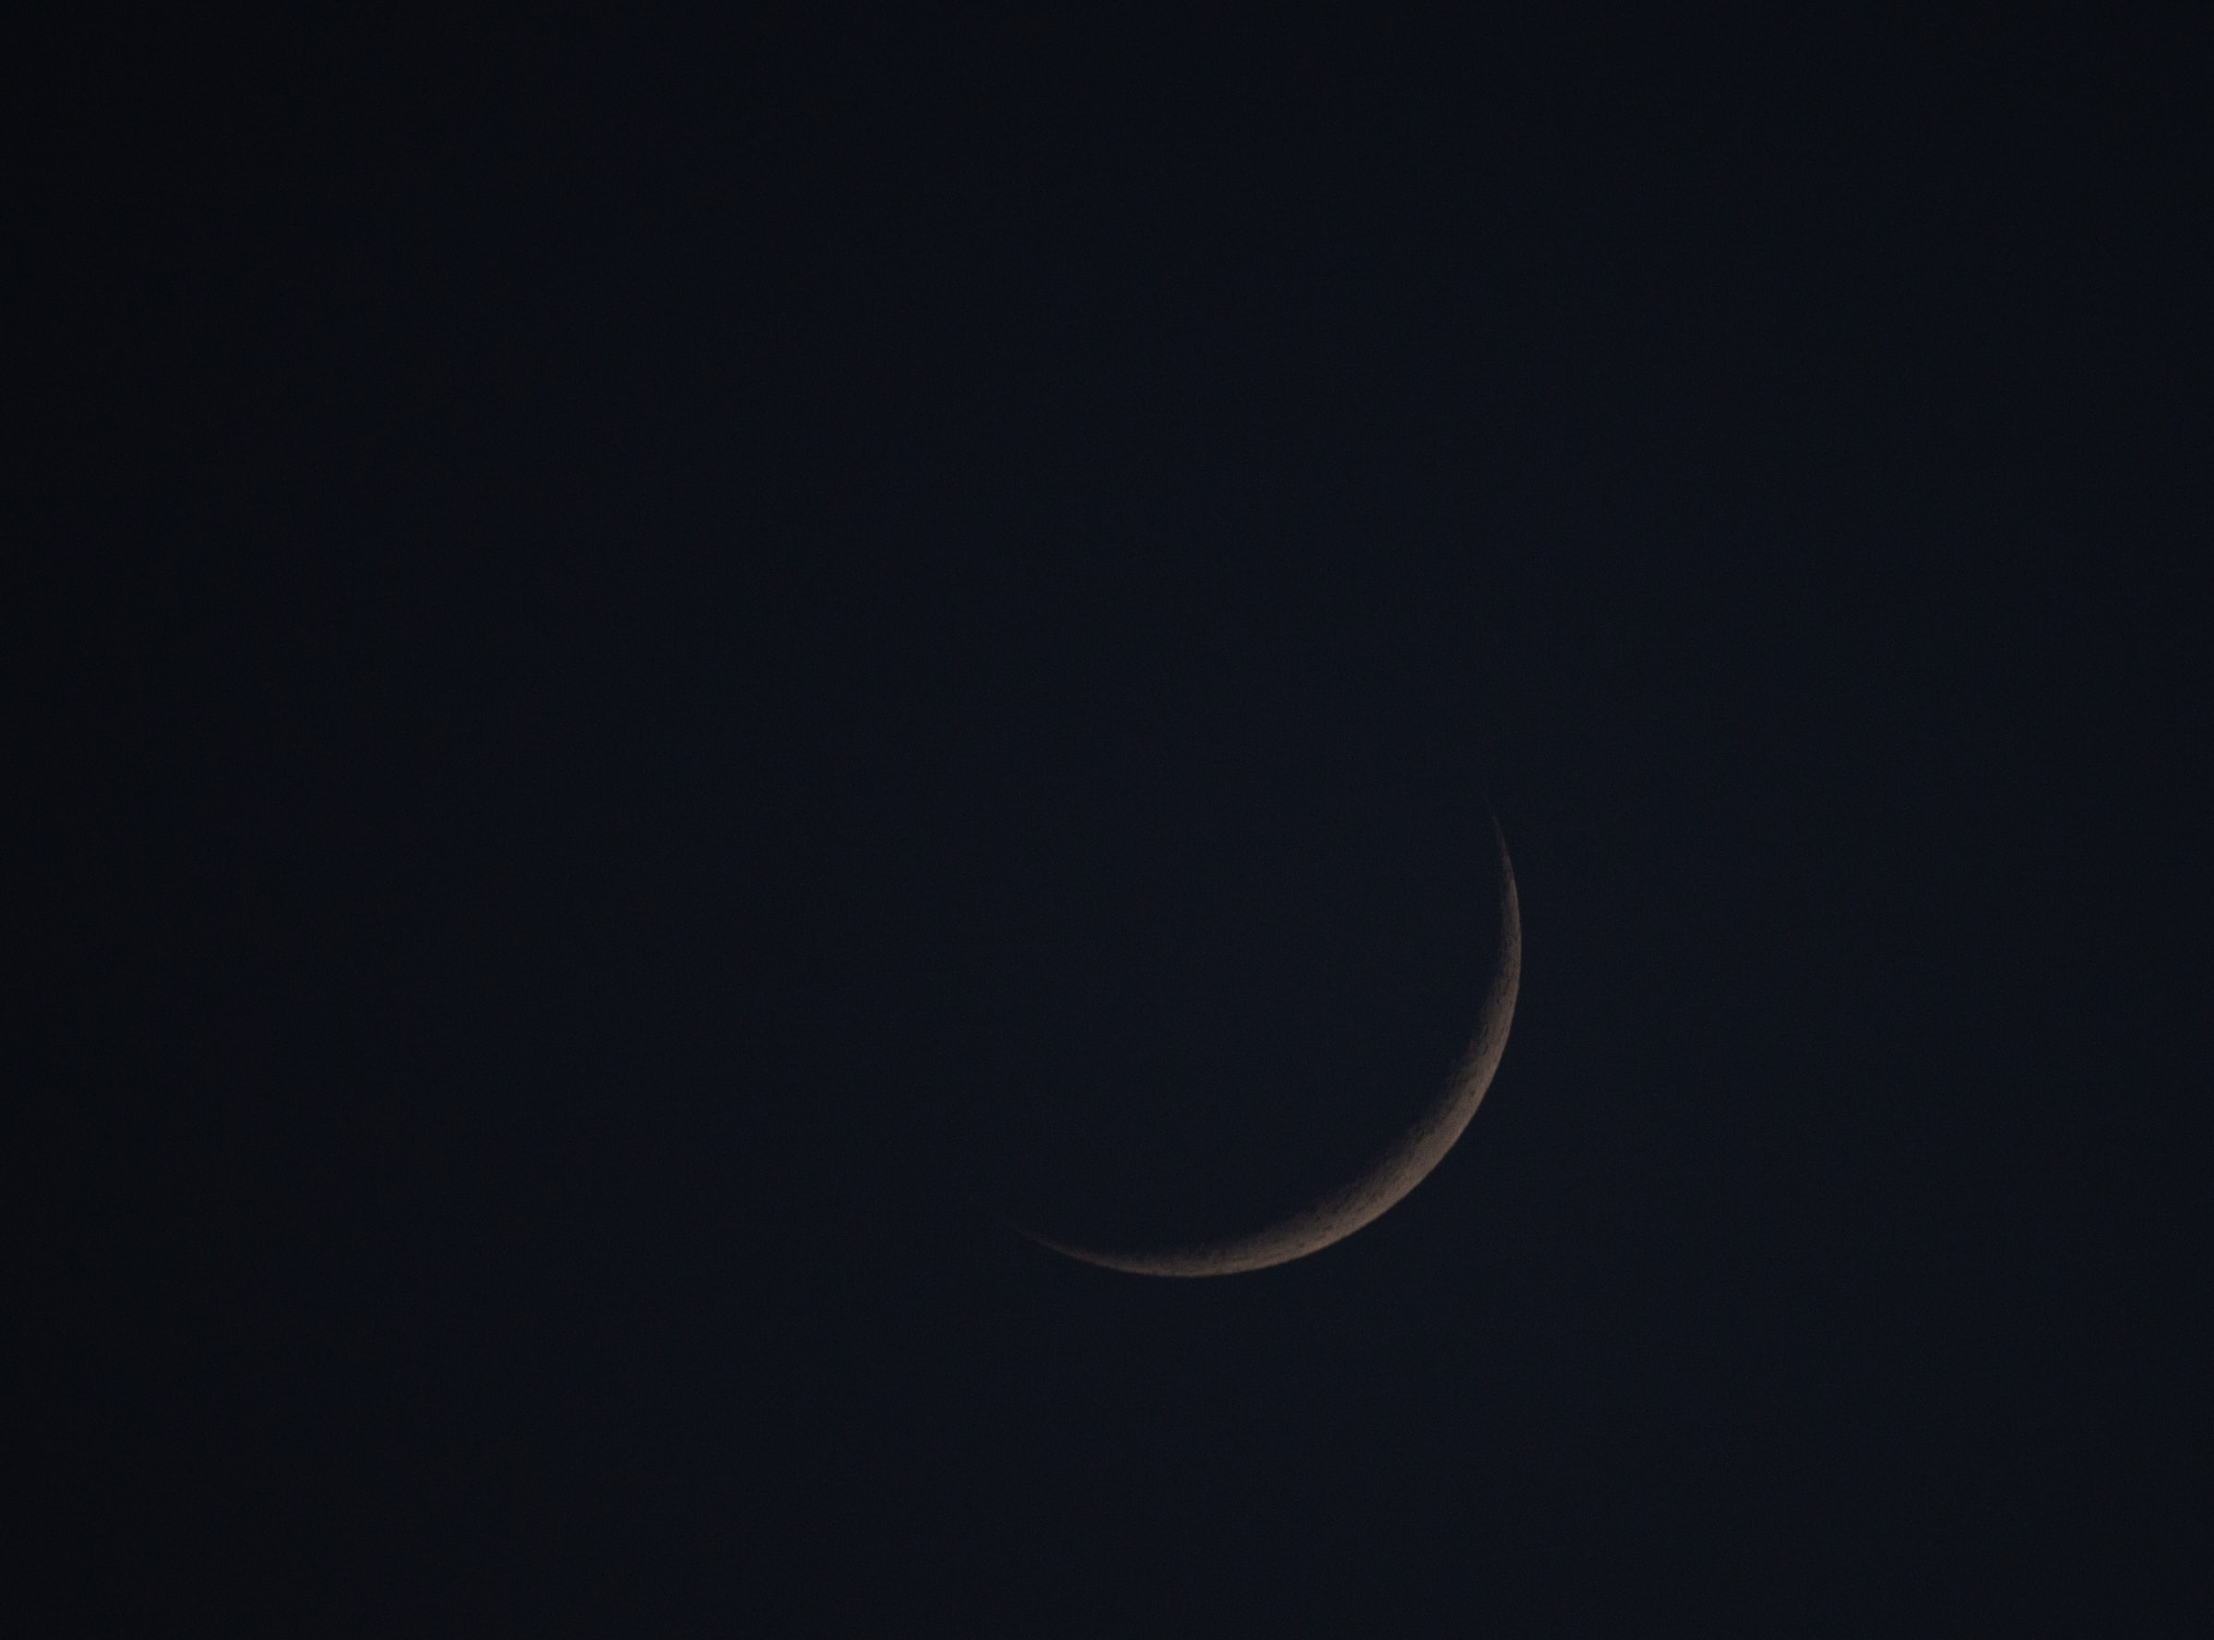
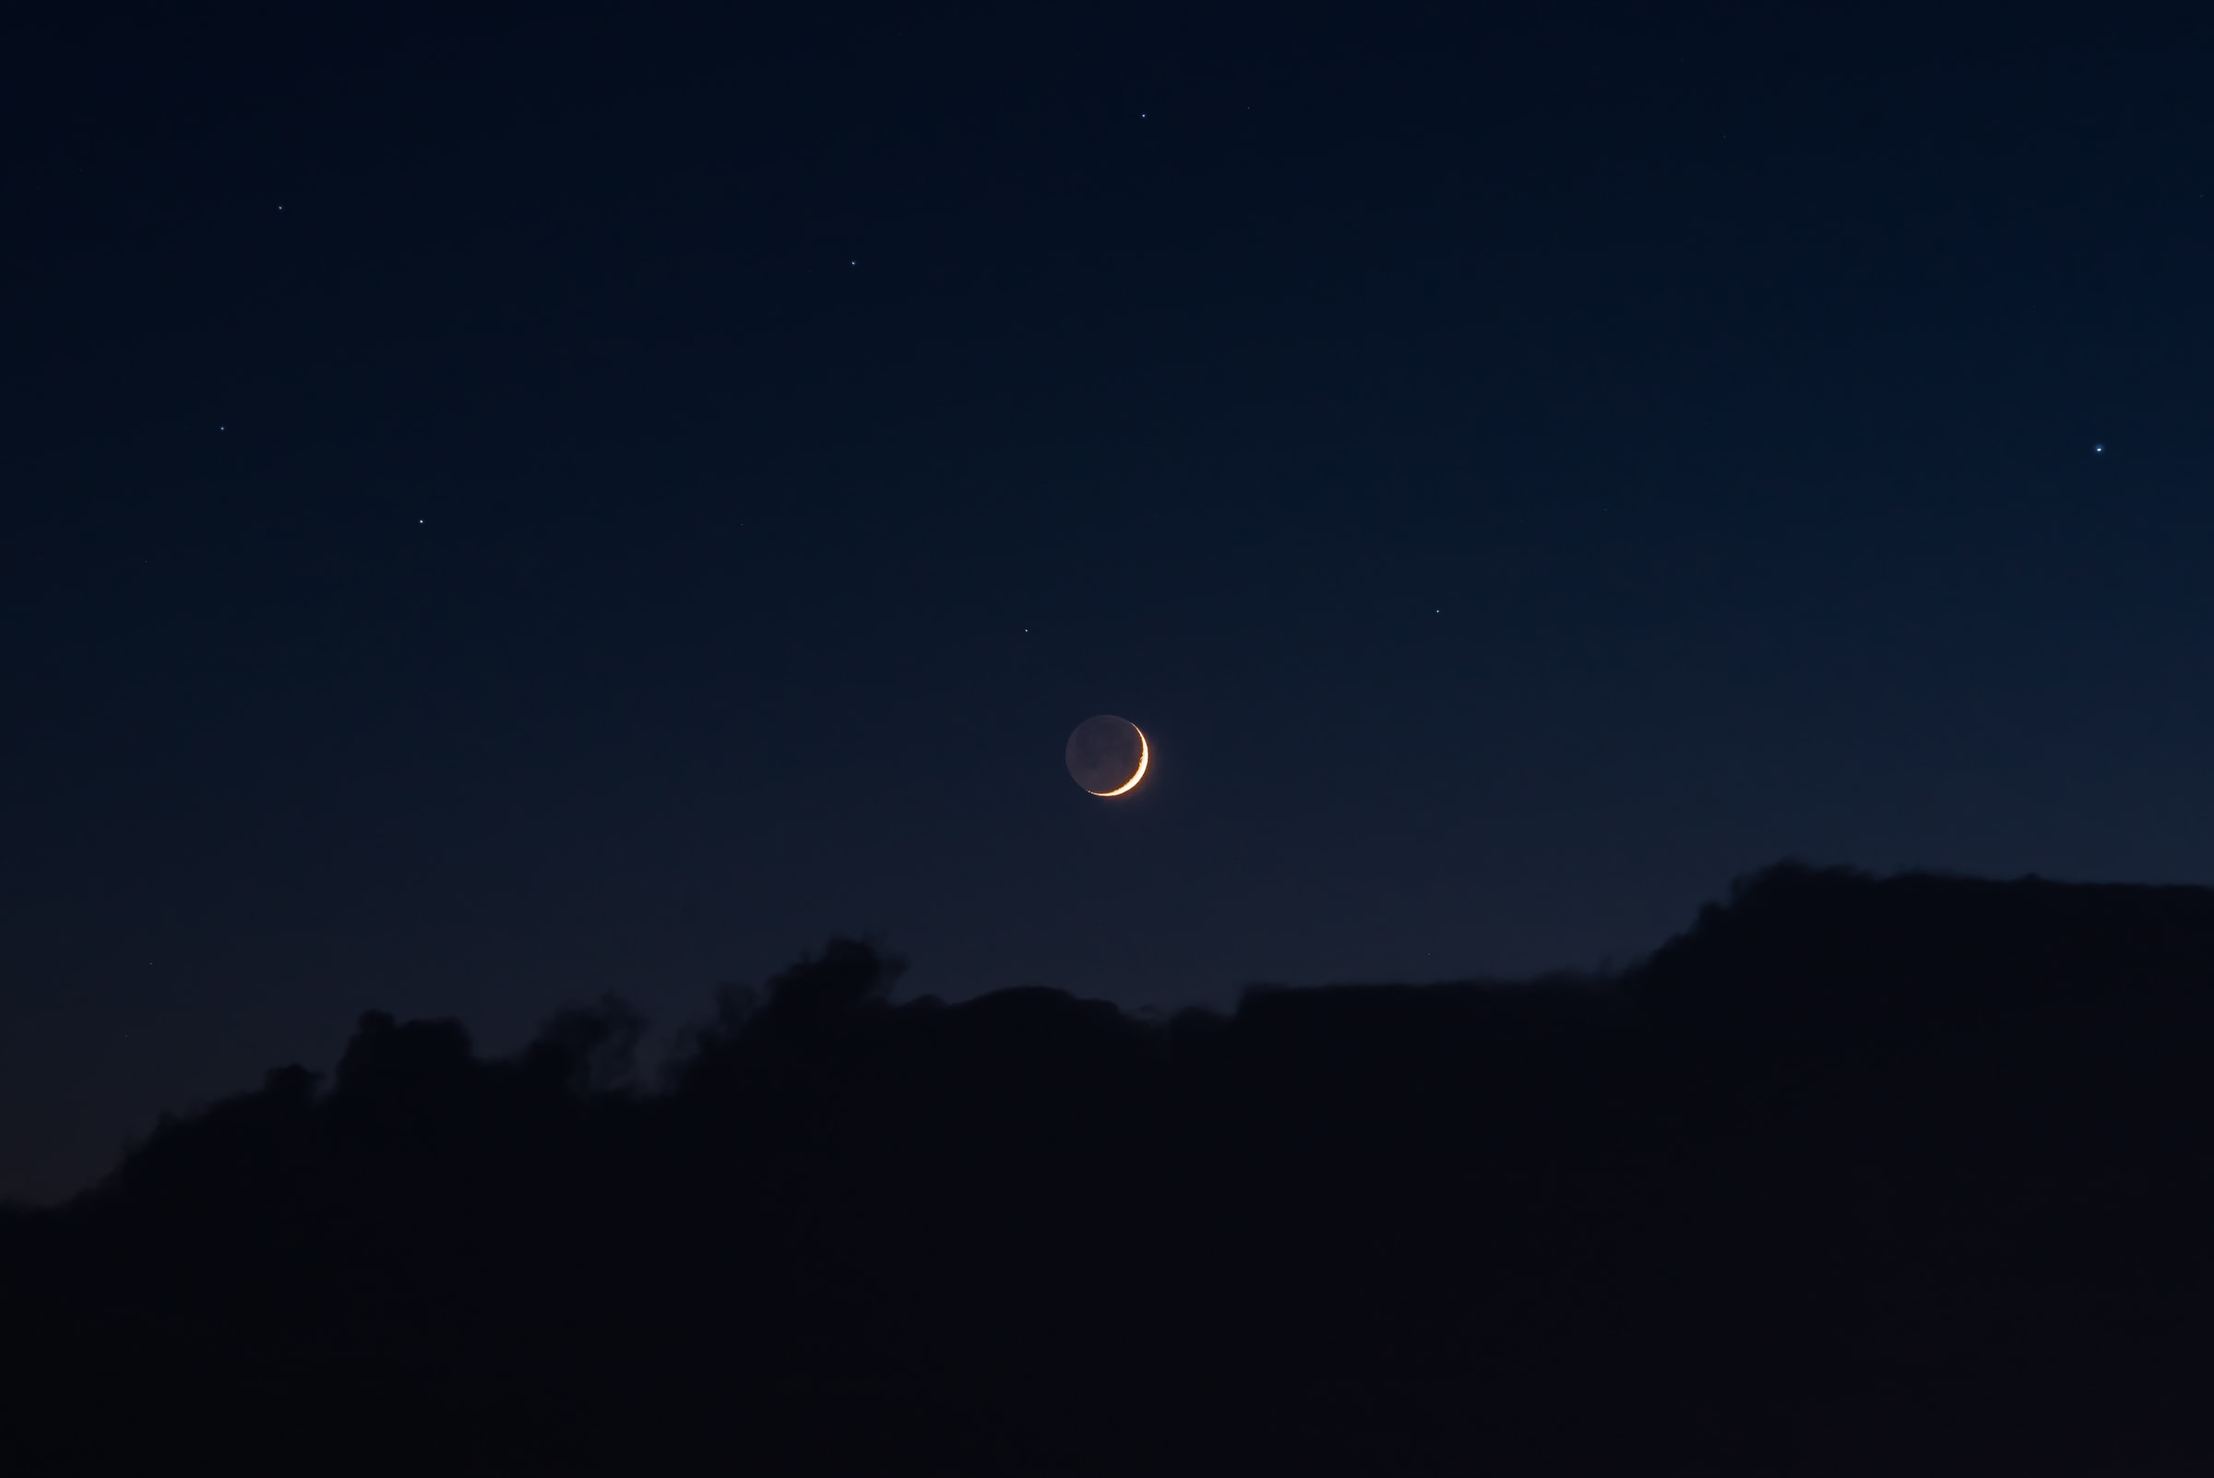
Changes: - minor adjustments - changed new moon and waxing crescent images - started ScrollToTopHomepage.js

Changed region(s): [[0.5, 0.2809, 1.0, 0.7803], [0.4688, 0.4682, 0.5312, 0.5618]]

diff --git a/src/components/Page/Main.js b/src/components/Page/Main.js
@@ -1,5 +1,4 @@
 import React from 'react';
-import ScrollToTop from '../Utility/ScrollToTop';
 
 // Components
 import AirQuality from "./Info/AirQuality";
@@ -10,6 +9,7 @@ import ImageSeparatorAstronomy from '../Utility/ImageSeparator/ImageSeparatorAst
 import ImageSeparatorWeatherCurrent from '../Utility/ImageSeparator/ImageSeparatorWeatherCurrent';
 import ImageSeparatorWeatherForecast from "../Utility/ImageSeparator/ImageSeparatorWeatherForecast";
 import Location from "./Info/Location";
+import ScrollToTopHomepage from "../Utility/ScrollToTopHomepage";
 import WeatherCurrent from "./Info/WeatherCurrent";
 
 
@@ -57,11 +57,11 @@ const Main = ({ weatherInfo, weatherCondition, location, airQuality, astronomy, 
                                 />
                             </div>
 
-                            <ScrollToTop />
-
                             <ImageSeparatorAstronomy
                                 astronomy={ astronomy }
                             />
+
+                            <ScrollToTopHomepage />
 
                         </div>
                     )

diff --git a/src/App.css b/src/App.css
@@ -356,17 +356,19 @@ p.close {
 .Astronomy-NewMoon {
     background: url(img/new-moon.jpg) fixed no-repeat bottom;
     background-size: cover;
+    background-position: 50% 30%;
 }
 
 .Astronomy-WaxingCrescent {
     background: url(img/moon-waxing-crescent.jpg) fixed no-repeat top;
     background-size: cover;
-    background-position: 50% 30%;
+    background-position: 45% 10%;
 }
 
 .Astronomy-FirstQuarter {
     background: url(img/moon-first-quarter.jpg) fixed no-repeat;
     background-size: cover;
+    background-position: 25% 100%;
 }
 
 .Astronomy-WaxingGibbous {
@@ -584,6 +586,13 @@ button {
     font-weight: bold;
     letter-spacing: 0.05rem;
     margin: 5px;
+}
+
+.ScrollToTopHomepage {
+    border: none;
+    cursor: pointer;
+    padding: 20px;
+    width: 100%;
 }
 
 

diff --git a/src/components/Utility/ScrollToTopHomepage.js b/src/components/Utility/ScrollToTopHomepage.js
@@ -1,0 +1,16 @@
+import React from 'react';
+
+const ScrollToTopHomepage = () => {
+    const scrollToTop = () => window.scrollTo({
+        top: 0,
+        behavior: 'smooth'
+    });
+
+    return (
+            <button onClick={ scrollToTop } className='ScrollToTopHomepage'>
+                Scroll to Top
+            </button>
+    );
+};
+
+export default ScrollToTopHomepage;
